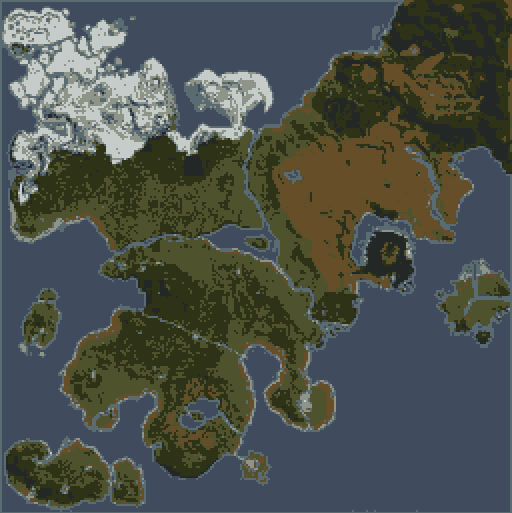
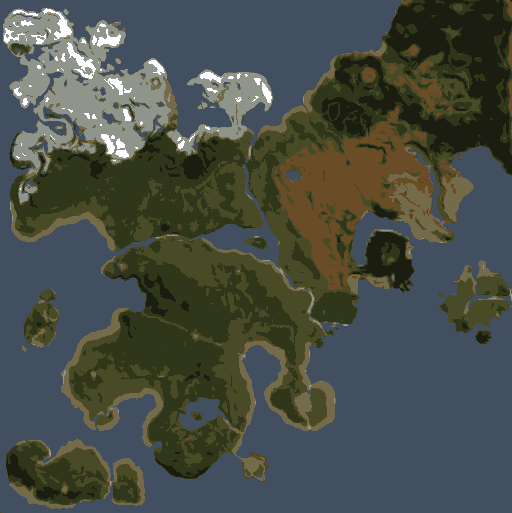
WARSTATUS: change base map
It's better to have a simplified map than a pixelized one.

diff --git a/js/menu.js b/js/menu.js
@@ -57,7 +57,7 @@ let __menu_footer = `
 		<a href="https://github.com/mascaldotfr/CoRT" target="_blank">source code</a>, and report
 		<a href="https://github.com/mascaldotfr/CoRT/wiki/Bug-reports" target="_blank">bugs</a>.
 		See also the <a href="https://discord.gg/P5BJRtTx3R">Discord server</a>!</i></p>
-		<p> <!--VERSION-->Version: 20250815.094639
+		<p> <!--VERSION-->Version: 20250815.105623
 `;
 
 $(document).ready(function() {
